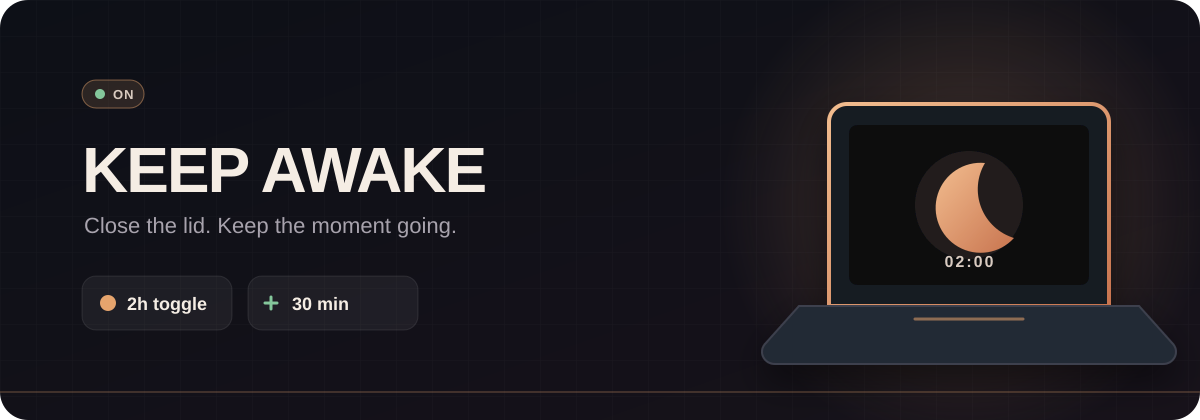
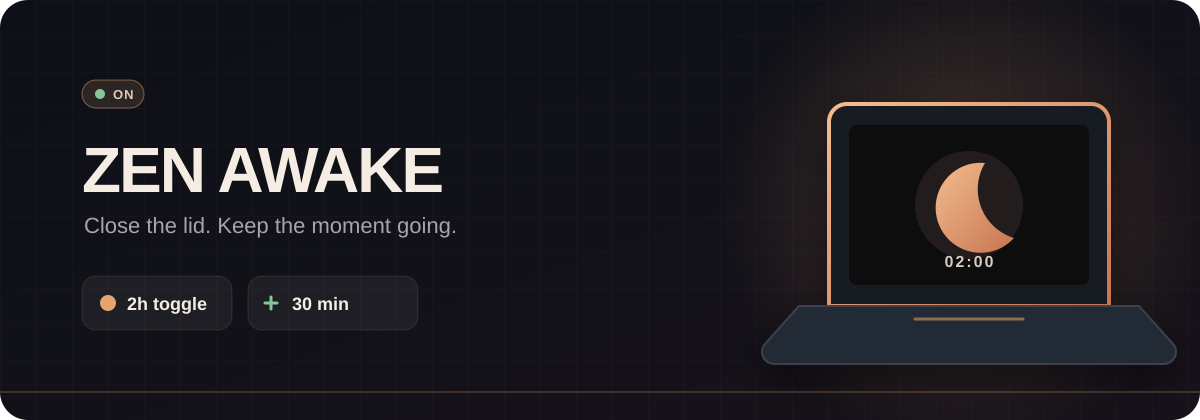
Rename plugin to Zen Awake

Changed region(s): [[0.0617, 0.3405, 0.4008, 0.4643]]

diff --git a/BarWidget.qml b/BarWidget.qml
@@ -7,7 +7,7 @@ import qs.Ui
 // closed, long enough to listen to a video while falling asleep.
 BarWidget {
   id: root
-  moduleName: "zen.nightmode"
+  moduleName: "zen.awake"
 
   // The script lives inside the plugin rather than elsewhere on PATH, so the
   // button and command cannot drift apart and renaming the folder is safe.
@@ -98,9 +98,9 @@ BarWidget {
     active: root.armed
     dimmed: !root.armed
     tooltipText: (root.armed
-      ? "Keep Awake - " + root.humanLeft(root.remaining) + " remaining"
+      ? "Zen Awake - " + root.humanLeft(root.remaining) + " remaining"
         + " - lid " + (root.lid === "closed" ? "closed" : "open")
-      : "Keep Awake - off")
+      : "Zen Awake - off")
       + "\nLeft click: toggle " + root.duration
       + " - Right click: add " + root.stepMinutes + " min"
 

diff --git a/README.md b/README.md
@@ -1,5 +1,5 @@
 <p align="center">
-  <img src="assets/banner.svg" alt="Keep Awake for Omarchy" width="100%">
+  <img src="assets/banner.svg" alt="Zen Awake for Omarchy" width="100%">
 </p>
 
 <p align="center">
@@ -8,13 +8,13 @@
   <img src="https://img.shields.io/badge/license-MIT-8b91a1?style=flat-square" alt="MIT license">
 </p>
 
-Keep your laptop awake with the lid closed for a limited time. The screen turns
+Zen Awake keeps your laptop awake with the lid closed for a limited time. The screen turns
 off, audio keeps playing, and normal lid behavior returns when the timer ends.
 
 ## Install
 
 ```bash
-omarchy plugin add https://github.com/zendarc147/omarchy-keep-awake.git --enable --yes
+omarchy plugin add https://github.com/zendarc147/omarchy-zen-awake.git --enable --yes
 ```
 
 ## Controls
@@ -33,7 +33,7 @@ Omarchy.
 ## Remove
 
 ```bash
-omarchy plugin remove zen.nightmode --yes
+omarchy plugin remove zen.awake --yes
 ```
 
 Built for Omarchy Quattro. No external dependencies.
